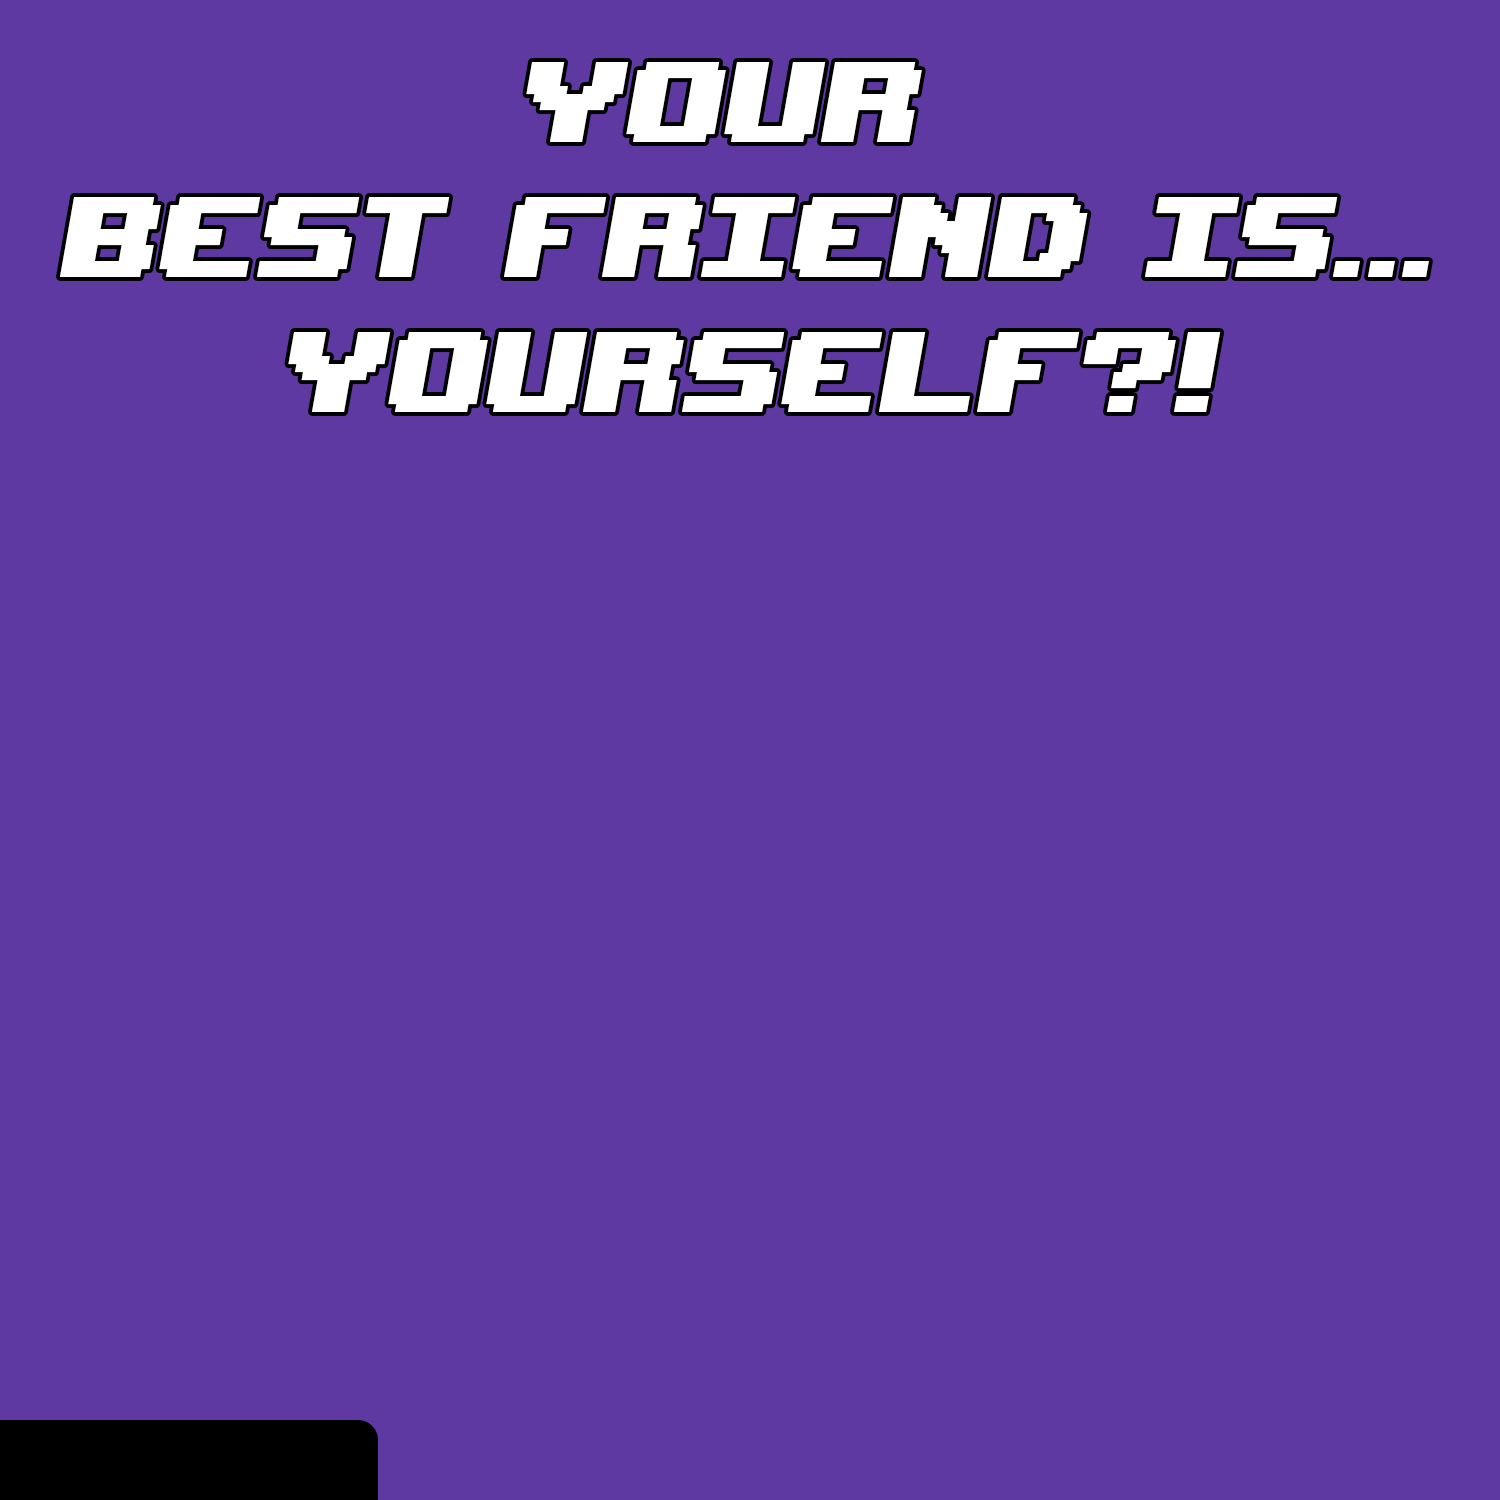
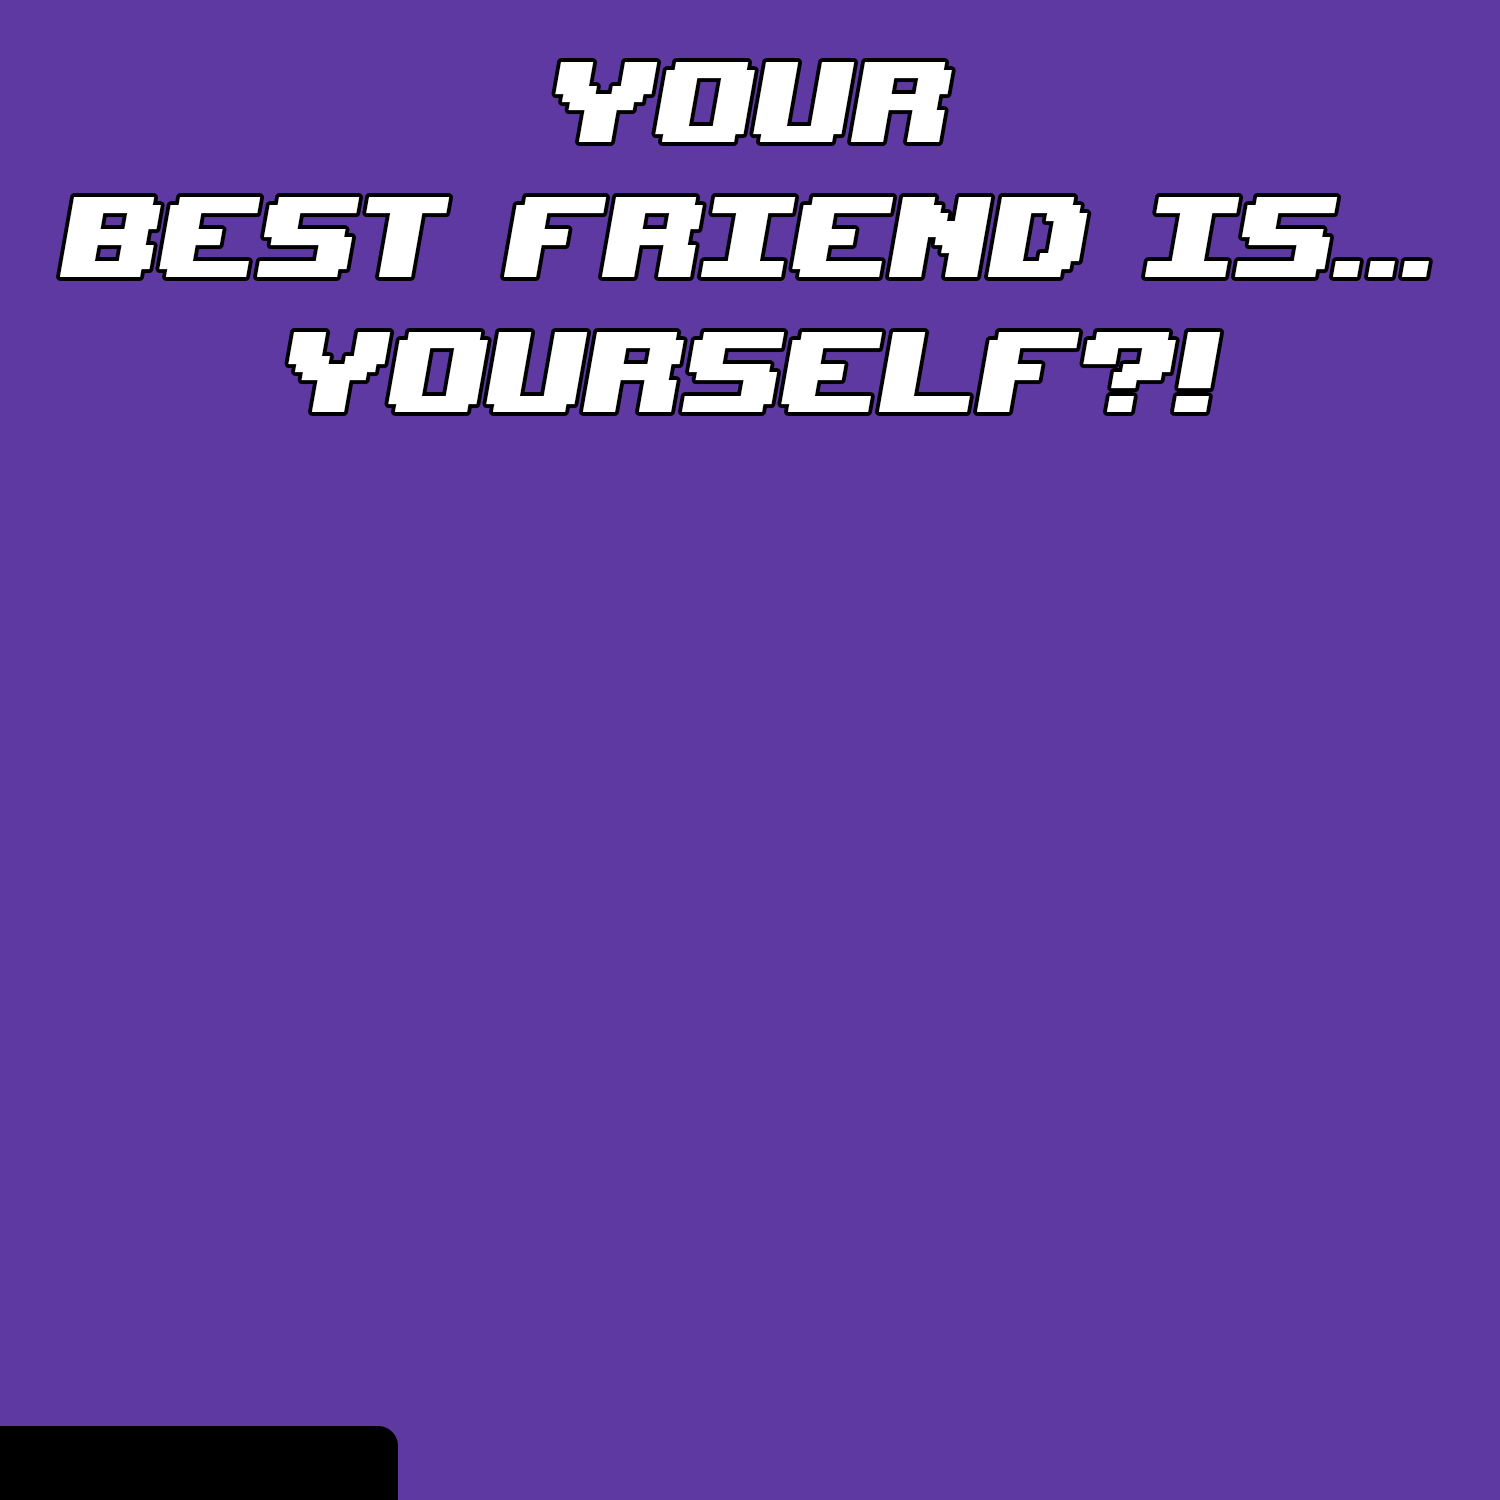
wip

Changed region(s): [[0.3373, 0.0307, 0.644, 0.1227], [0.0, 0.92, 0.2453, 0.9507], [0.2453, 0.9507, 0.276, 1.0]]

diff --git a/app/lib/generateImage.jsx b/app/lib/generateImage.jsx
@@ -19,36 +19,32 @@ export async function generateFriendImage(_callerUsername, _callerPropic, _frien
   const currentDate = new Date();
   const formattedDate = currentDate.toLocaleDateString();
 
-  const upperText =
+  const bgImage =
     !callerUsername || !friendUsername || !callerPropic || !friendPropic
-      ? "It looks like one of you is missing..."
+      ? `${process.env.NEXT_PUBLIC_BASE_URL}/frames/missing.png`
       : friendUsername == callerUsername
-      ? "Your best friend is... yourself?!"
-      : "It looks like you two are Farcaster best friends!";
+      ? `${process.env.NEXT_PUBLIC_BASE_URL}/frames/yourself.png`
+      : `${process.env.NEXT_PUBLIC_BASE_URL}/frames/best_friends.png`;
 
   // Generate the image with Satori
   const svg = await satori(
     <div style={{ ...style.background, backgroundColor: "#7e5bc0" }}>
-      <span tw={style.mainText}>{upperText}</span>
-      <div style={style.mainContainer}>
-        <div style={style.friendContainer}>
-          {callerPropic ? (
-            <img src={callerPropic} style={style.imageFriend} />
-          ) : (
-            <img src={`${process.env.NEXT_PUBLIC_BASE_URL}/frames/not_found.png`} style={style.imageFriend} />
-          )}
-
-          <span tw={style.twFriendName}>{callerUsername ? callerUsername : "Not found..."}</span>
-        </div>
-
-        <div style={style.friendContainer}>
-          {friendPropic ? (
-            <img src={friendPropic} style={style.imageFriend} />
-          ) : (
-            <img src={`${process.env.NEXT_PUBLIC_BASE_URL}/frames/not_found.png`} style={style.imageFriend} />
-          )}
-          <span tw={style.twFriendName}>{friendUsername ? friendUsername : "Not found..."}</span>
-        </div>
+      <img src={bgImage} style={style.bgImage} />
+      <div style={style.callerContainer}>
+        {callerPropic ? (
+          <img src={callerPropic} style={style.imageFriend} />
+        ) : (
+          <img src={`${process.env.NEXT_PUBLIC_BASE_URL}/frames/not_found.png`} style={style.imageFriend} />
+        )}
+        <span tw={style.twFriendName}>{callerUsername ? callerUsername : "Not found..."}</span>
+      </div>
+      <div style={style.friendContainer}>
+        {friendPropic ? (
+          <img src={friendPropic} style={style.imageFriend} />
+        ) : (
+          <img src={`${process.env.NEXT_PUBLIC_BASE_URL}/frames/not_found.png`} style={style.imageFriend} />
+        )}
+        <span tw={style.twFriendName}>{friendUsername ? friendUsername : "Not found..."}</span>
       </div>
       <span tw={style.twDate} style={style.date}>
         Created on {formattedDate}
@@ -73,7 +69,7 @@ export async function generateFriendImage(_callerUsername, _callerPropic, _frien
 
   // Save the image to the file system if we are running locally
   if (process.env.NEXT_PUBLIC_BASE_URL && process.env.NEXT_PUBLIC_BASE_URL.includes("localhost")) {
-    const outputPath = join(process.cwd(), "public/frames/test.png");
+    const outputPath = join(process.cwd(), "public/test.png");
     await sharpPNG.toFile(outputPath);
   }
 

diff --git a/app/lib/style_components/styles.ts b/app/lib/style_components/styles.ts
@@ -3,6 +3,14 @@ export const frontImage = {
   height: "1500px",
 };
 
+export const bgImage = {
+  width: "100%",
+  height: "100%",
+  postition: "absolute",
+  bottom: "0",
+  left: "0",
+};
+
 export const background = {
   display: "flex",
   flexDirection: "column",
@@ -23,22 +31,33 @@ export const mainContainer = {
   marginBottom: "100px",
 };
 
+export const callerContainer = {
+  display: "flex",
+  flexDirection: "column",
+  alignItems: "center",
+  justifyContent: "center",
+  position: "absolute",
+  left: "30",
+  bottom: "230",
+};
+
 export const friendContainer = {
   display: "flex",
   flexDirection: "column",
   alignItems: "center",
   justifyContent: "center",
-  position: "relative",
+  position: "absolute",
+  left: "685",
+  bottom: "230",
 };
 
 export const imageFriend = {
-  height: "650",
-  width: "650",
+  height: "785",
+  width: "785",
   borderRadius: "100%",
 };
 
-export const date = { position: "absolute", left: "-17", bottom: "-18" };
+export const date = { position: "absolute", left: "13", bottom: "24" };
 
-export const mainText = "text-[65px] pb-22 text-white";
 export const twFriendName = "flex rounded-3xl bg-white p-15 pb-5 absolute -bottom-26";
-export const twDate = "flex justify-start items-start text-[27px] text-white flex rounded-xl bg-black p-9";
+export const twDate = "flex justify-start items-start text-[35px] text-white";

diff --git a/app/lib/utils.ts b/app/lib/utils.ts
@@ -97,7 +97,7 @@ export async function getFriend(
   let friendshipLevel = "";
 
   // Get friend's name and propic through API calls
-  if (callerUsername && false) {
+  if (callerUsername) {
     try {
       const response = await axios.post("https://graph.cast.k3l.io/links/engagement/handles?limit=1", [callerUsername]);
       console.log("response:", response.data.result);
